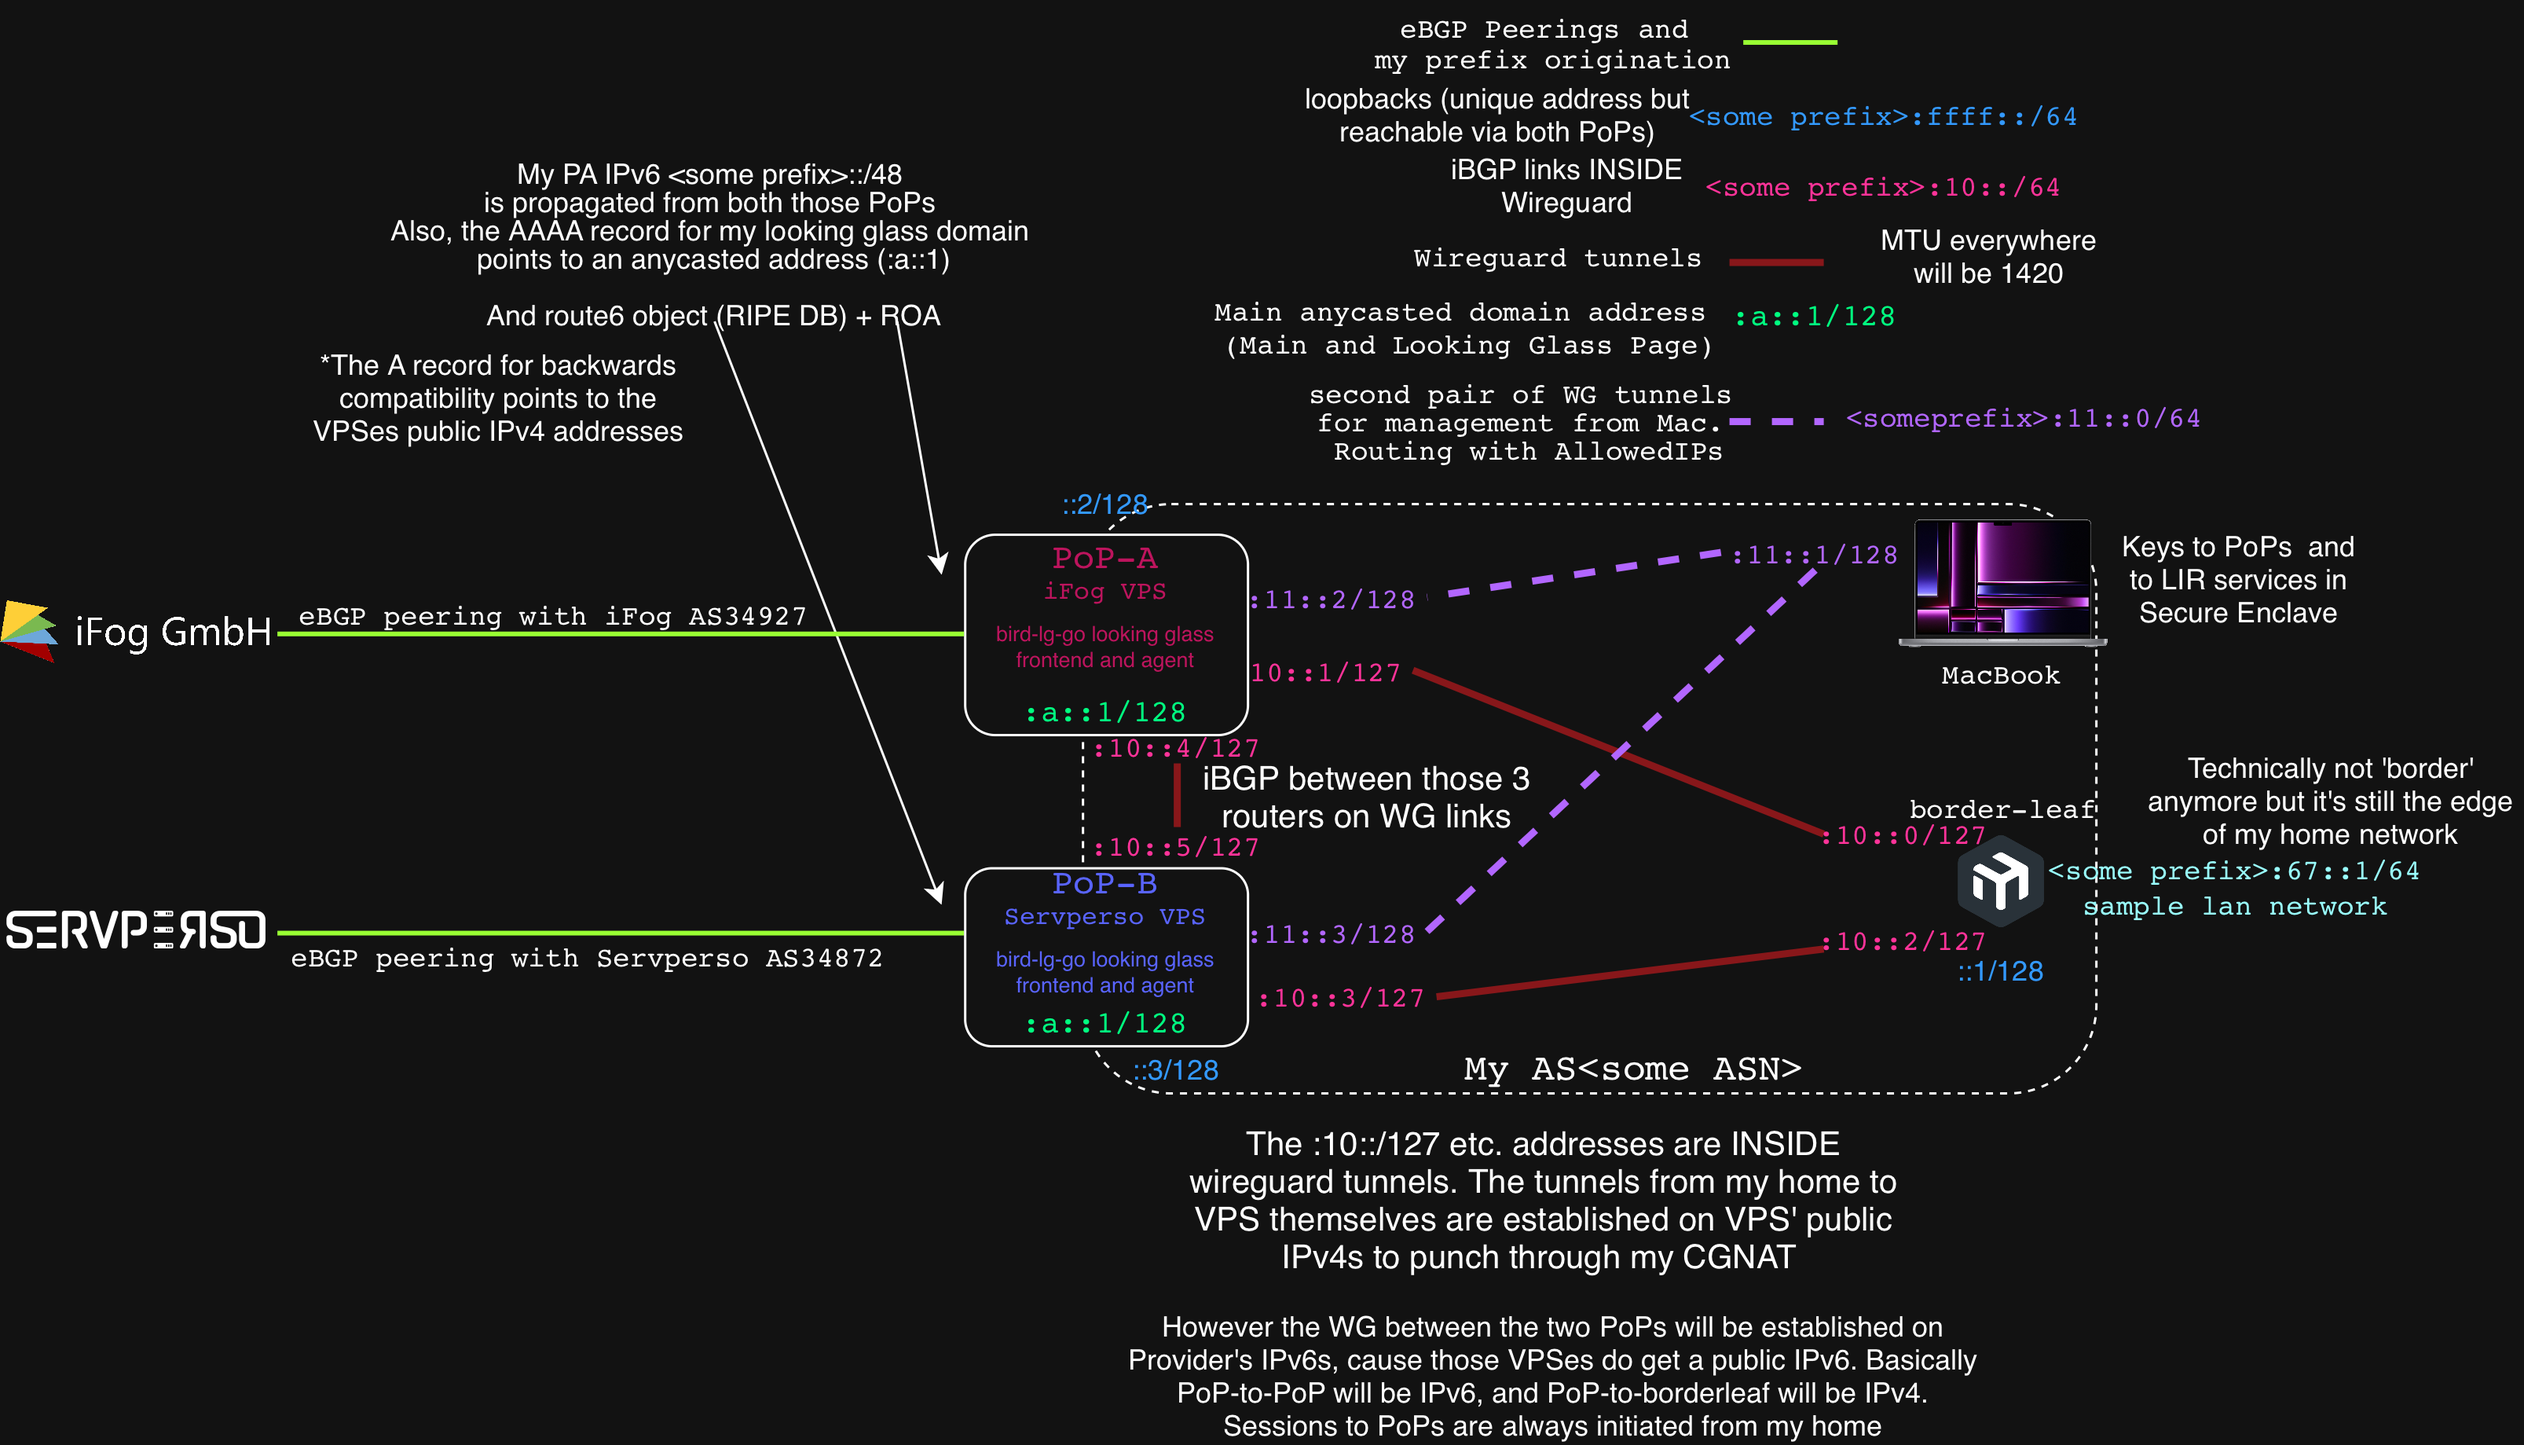
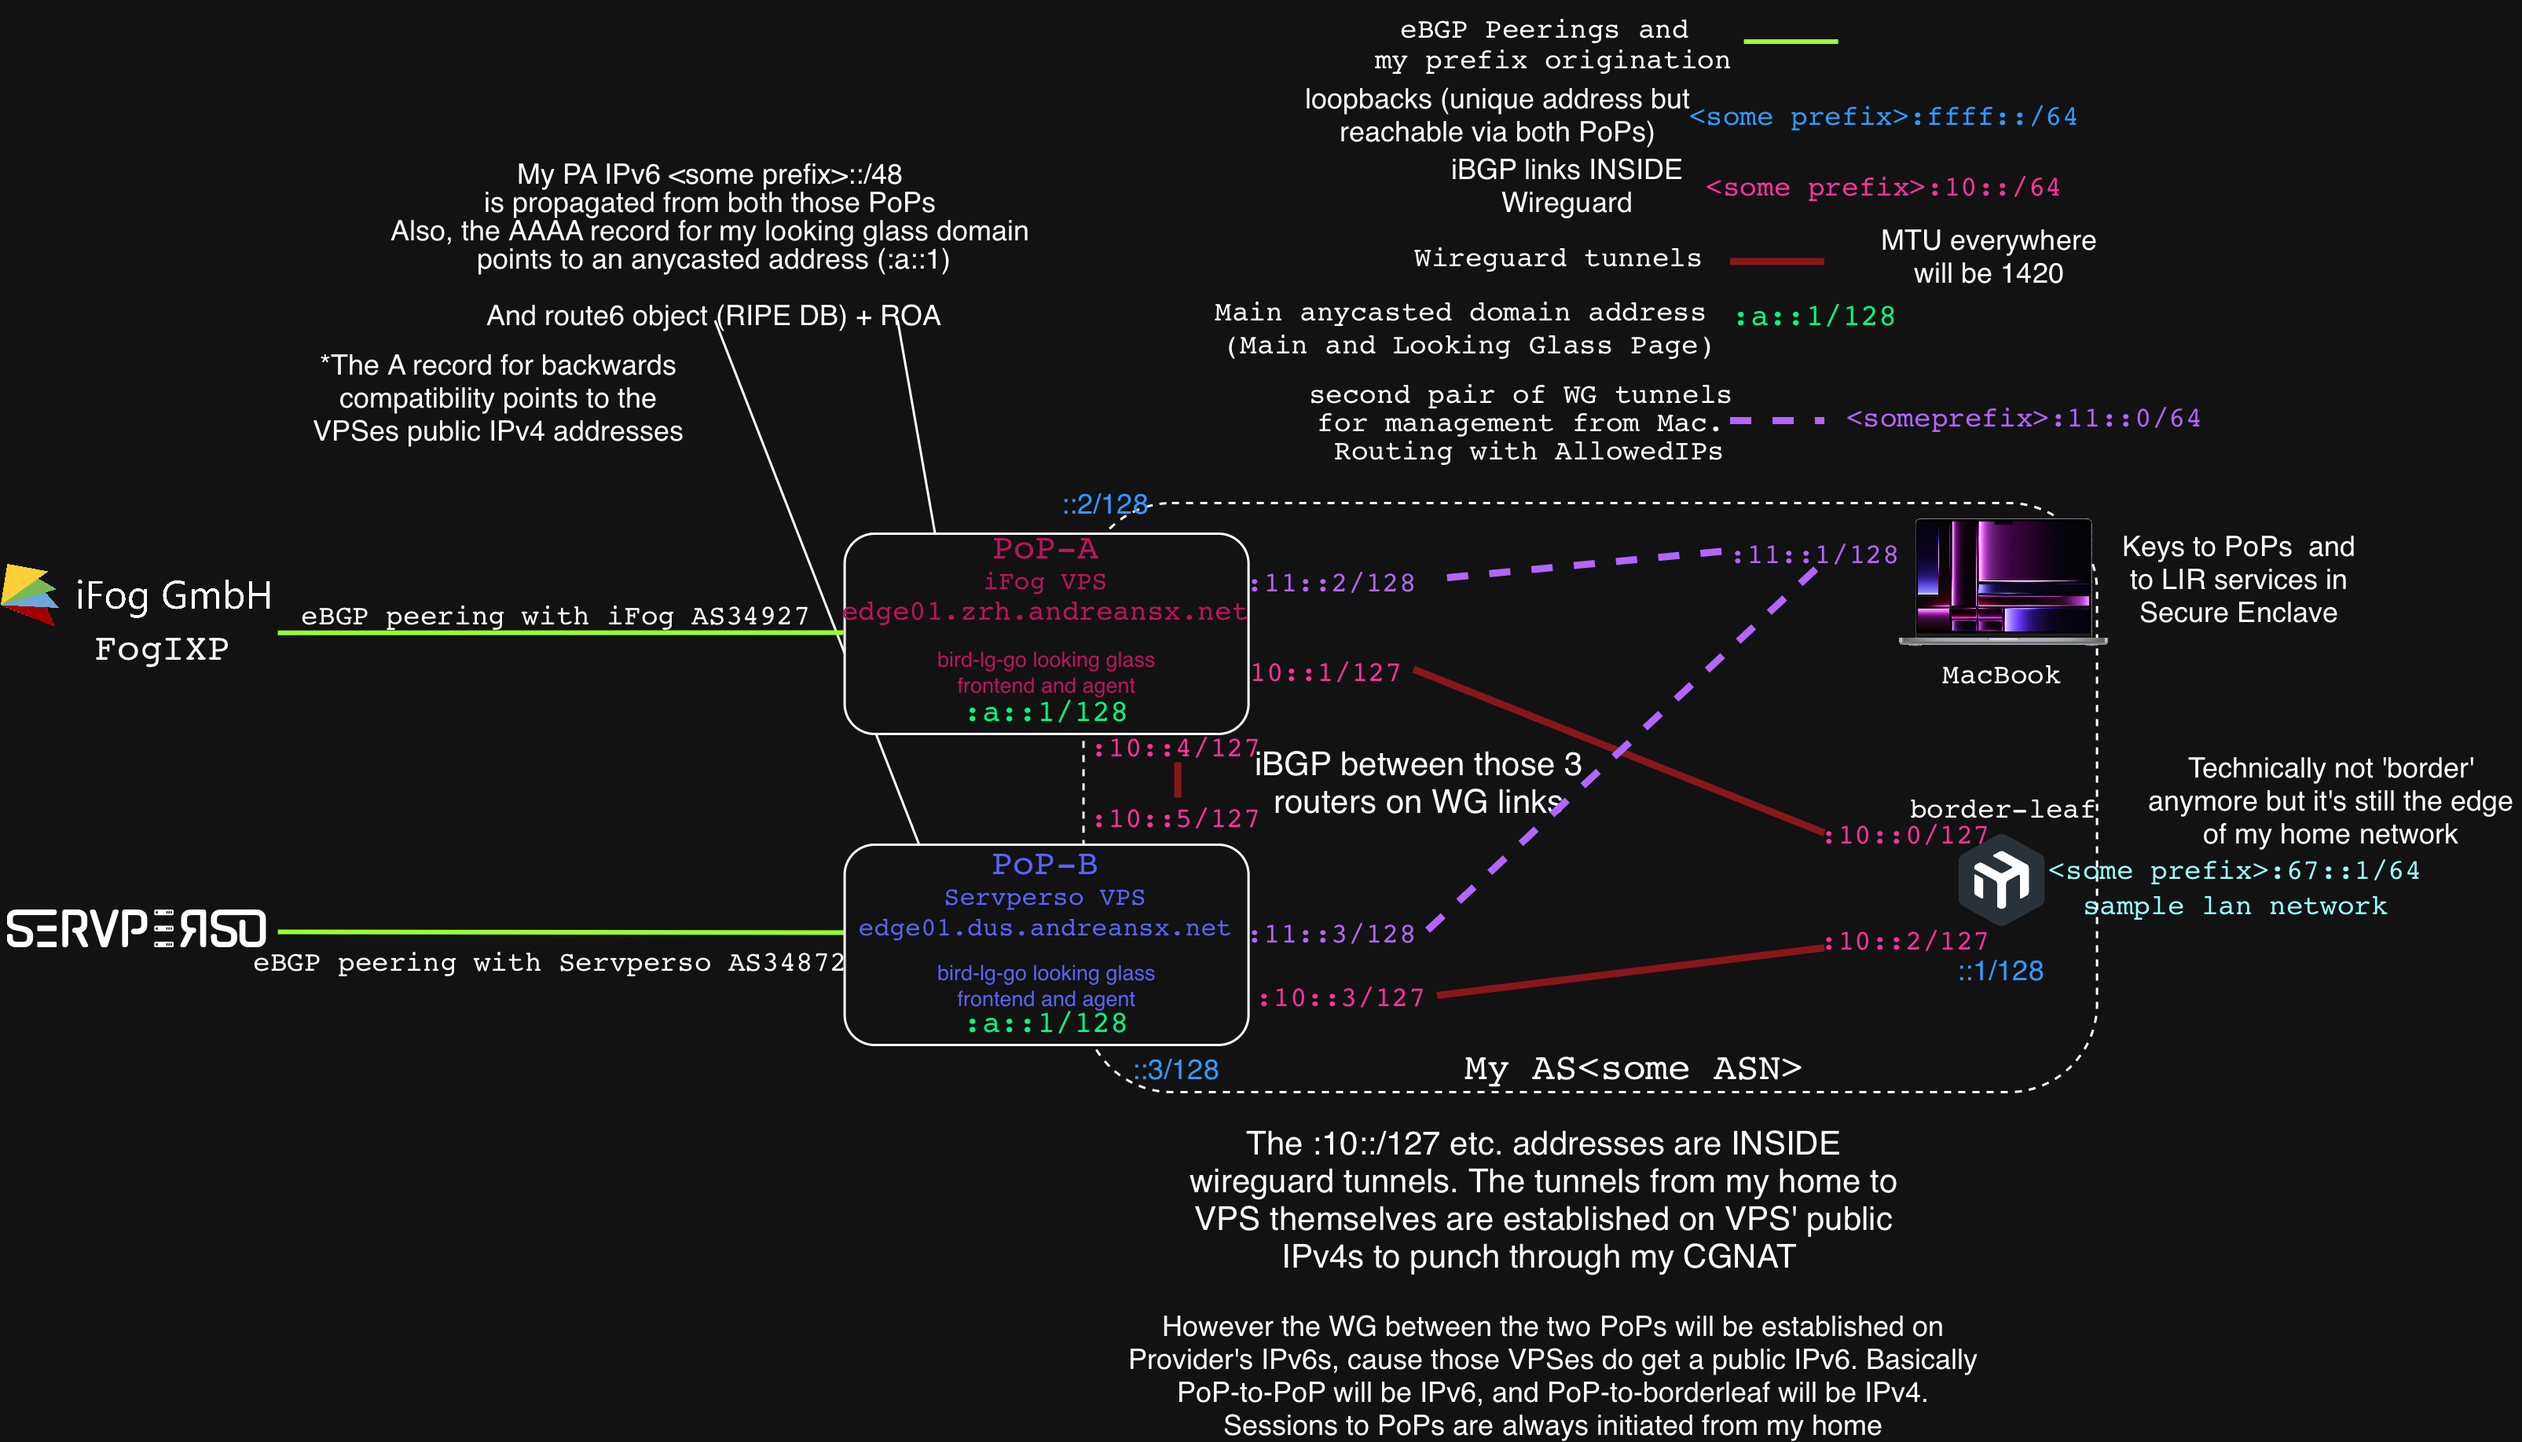
writing about the why i didnt choose OCI and Vultr

diff --git a/AutonomousSystem/00-vultr-bgptunnel-oci.md b/AutonomousSystem/00-vultr-bgptunnel-oci.md
@@ -1,0 +1,26 @@
+# Why not Vultr or BGPTunnel.com and Oracle Always-Free VPS 
+
+Oracle offers a VPS that is completely free, and it includes 200GBs of boot volume and 1 oCPU in the VM.Standard.E2.1.Micro Shape with 1GB of RAM.   
+
+[BGPTunnel.com](https://bgptunnel.com) is iFog GmbH's free service for BGP transit and it uses GRE.
+I was thinking about setting up a OCI VPS, and then just tunneling my IPv6 via BGPTunnel.com to it, and then again tunneling it through Wireguard to my MikroTik CCR2004 at home.   
+
+So, the first thing is that Oracle Always-Free VPSes have a tendency to get randomly removed by the Always-Free OCI Reaper. There is no SLA etc.   
+Another thing is that BGPTunnel.com is not eligible to be one of the two upstreams needed for RIPE ASN assignment, it does not fit the requirements in the routing policy.   
+And Oracle itself does not establish a BGP session with a client.   
+
+I was also thinking about Vultr, which I later considered not eligible for my need, cause they are an hourly cloud provider but RIPE requires two upstreams which cannot be hourly cloud providers (or so I thought).
+Turns out that this is only an iFog's requirement and not a RIPE requirement in general, for example, Lagrange Cloud, after I asked them, confirmed that there is no restrictions on using hourly cloud providers for people in the RIPE NCC region.   
+
+Part of the response I received:   
+
+> "There are no restrictions on using hourly providers as upstream. RIPE will accept any valid ASN, although may request evidence if you list a noteworthy partner such as Cloudflare or Google. The only "restriction" on hourly providers is for requests from customers outside the RIPE region who are requesting a RIPE ASN, as they must provide an invoice for a VPS or similar within the RIPE region. Most hourly providers do not issue invoices in a format acceptable by RIPE due to how their services operate. You are in-region so do not have to provide an invoice."   
+
+So after all, I could use Vultr, but only if my sponsoring LIR would be other than iFog, as stated on iFog's website:   
+> Notes:
+> IMPORTANT regarding AS-Number registration:
+> -We require a copy of your Passport and/or Company Certificate, two Upstream Carrier with AS-Number and eMail you plan to use for the RIPE NCC.
+> -Documents such as Company Certificate or Certificate of good standing cant be older than 3 months.
+> -Upstreams MUST be in the RIPE NCC Service region (eg. Europe) and CANNOT be a hourly cloud provider. If you are outside the region, you will need to provide Invoices of your upstreams within the region.   
+
+

diff --git a/AutonomousSystem/README.md b/AutonomousSystem/README.md
@@ -1,4 +1,24 @@
 # Notes directly regarding the AS  
 
+|resource |status|
+|:-|:-|
+|ASN|Pending|
+|Sponsoring LIR|Pending|
+|PoP-A|pending|
+|PoP-B|activated|
+
+
 I'll place security notes in here rather than in [projects](../projects/).   
 
+## Diagram 
+
+![diagram](../media/ownassimplified.png)   
+
+As of now, Servperso VPS is activated, iFog VPS is pending.   
+
+Servperso VPS is a Basic tier with 2 vCores, 2GB RAM, 15GB SSD, 500Mbps with IPv4 and IPv6 public IPs for 28,66 EUR quarterly.   
+iFog VPS is a Switzerland Ryzen G2 with 2 AMD Ryzen Shared Cores, 2GB RAM, 50GB NVMe SSD and also a public IPv4 and IPv6 and up to 8TB traffic monthly at up to 10Gbps for 10 CHF a month.   
+
+## Docs
+
+* [Why not Vultr or BGPTunnel and Oracle Always-Free VPS](./00-vultr-bgptunnel-oci.md)   

diff --git a/README.md b/README.md
@@ -16,6 +16,10 @@ Anycast will only work for people behind IPv6. The A records for my domain will 
 
 </div>
 
+# Autonomous System
+
+Check directory [./AutonomousSystem/](./AutonomousSystem/) for information specifically about the AS.
+
 # Architecture
 
 Currently my main focus is to become my own AS. Two VPSes will have eBGP peerings established and there will be iBGP between them and my CCR2004 border leaf through wireguard tunnels. However most of the lab is in fact turned off, cause it's too loud and too power-hungry, so im leaving only the border-leaf on.    
